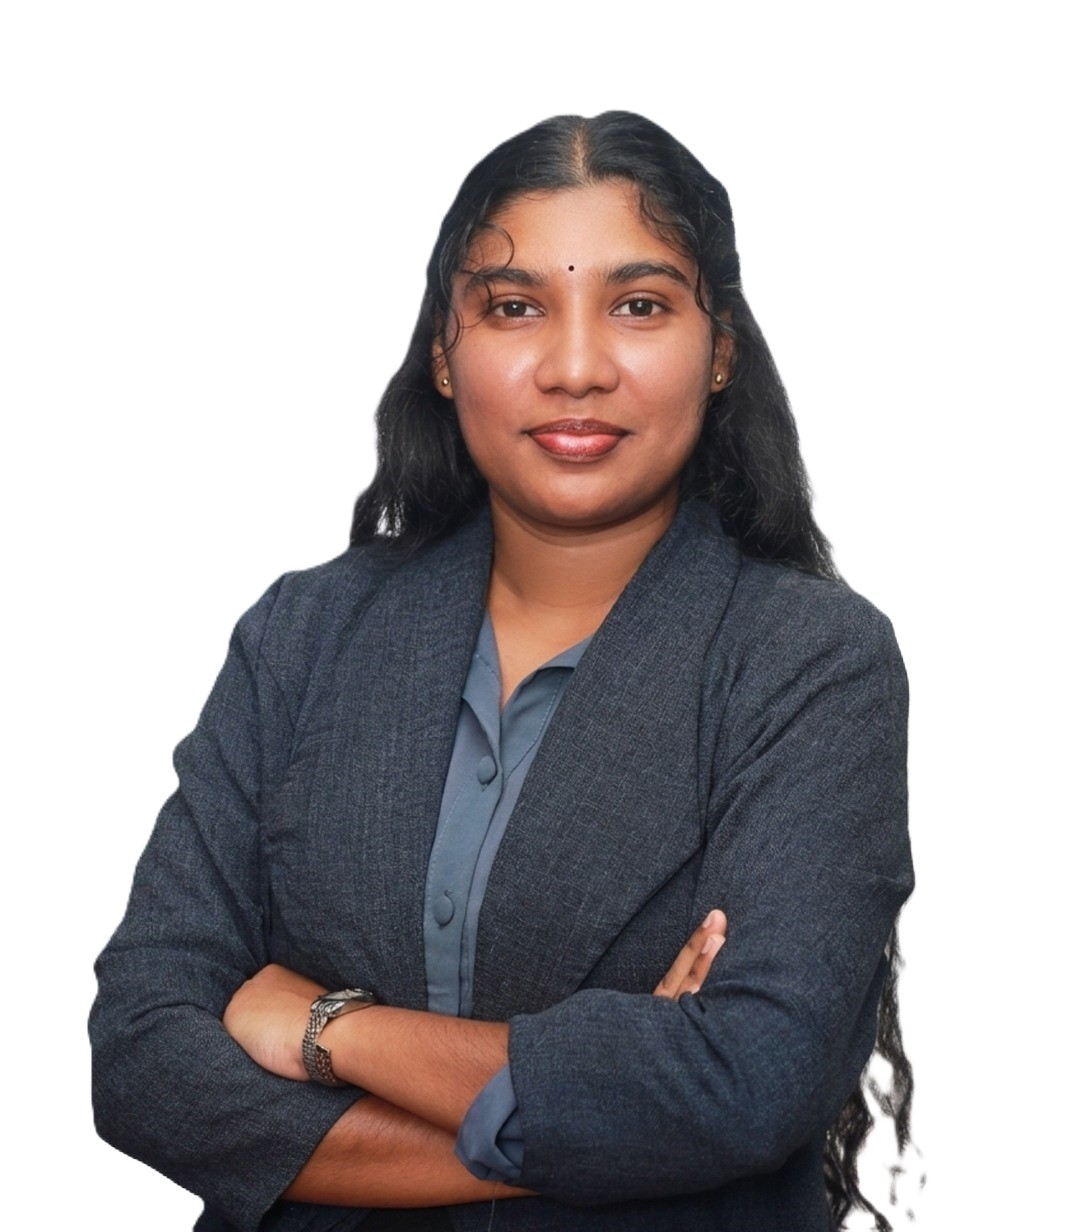
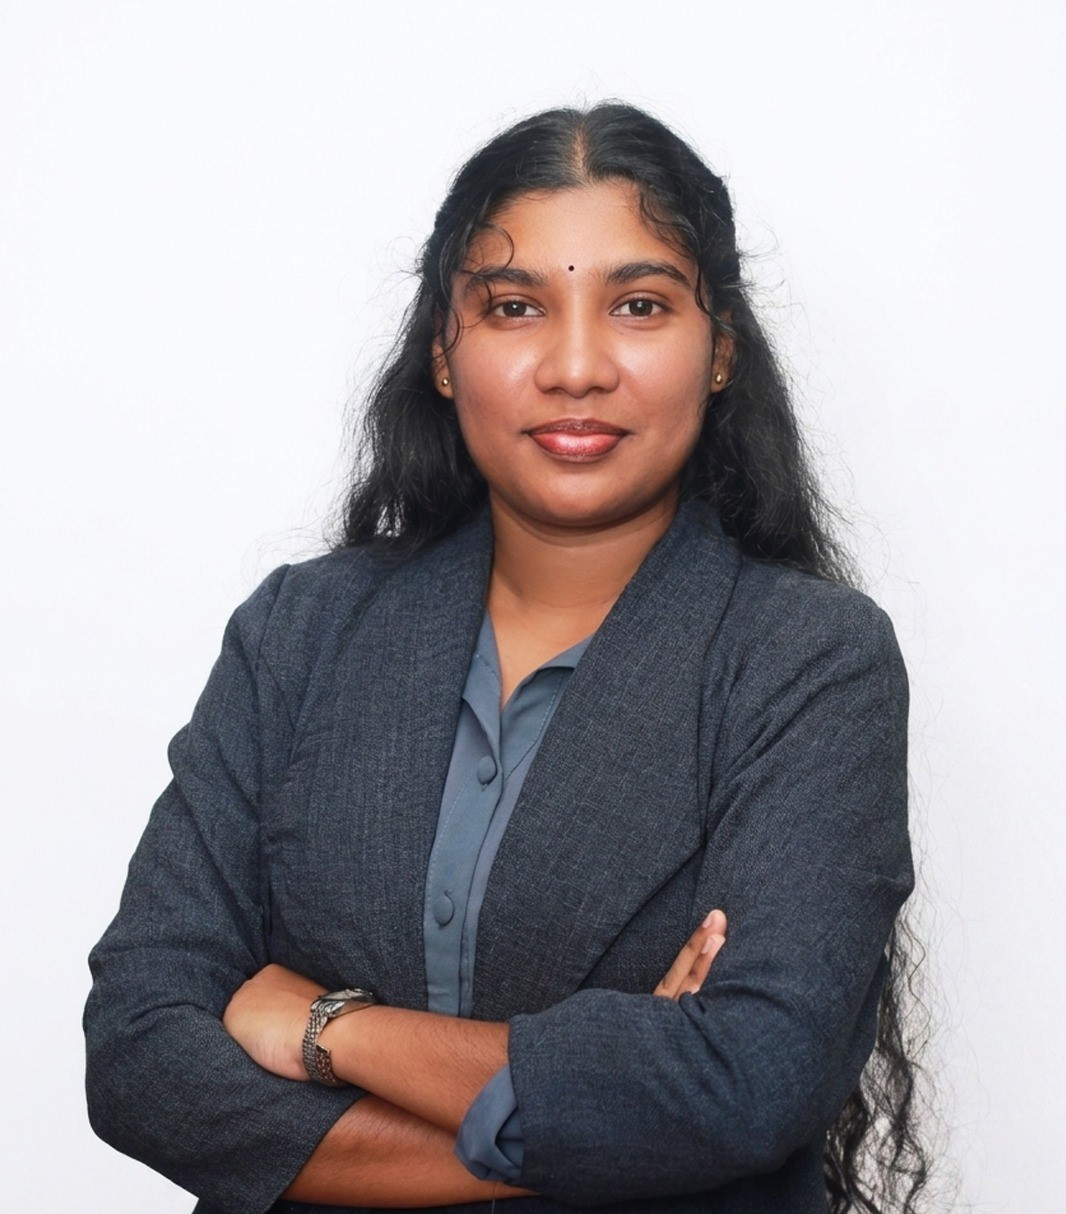
Projects Updated

diff --git a/src/data/projects.js b/src/data/projects.js
@@ -3,51 +3,37 @@ export const projects = [
   {
     id: '01',
     module: 'Data Analytics',
-    title: 'Global AI Job Market & Salary Trends 2025',
+    title: 'Retail Price Trend & Inflation Analysis',
     summary:
-      'End-to-end analysis of the global AI job market, combining descriptive, inferential, and predictive methods to uncover in-demand roles, top-paying skills, and regional hiring imbalances.',
+      'An interactive Dash dashboard analyzing ~22,000 weekly retail price records (2020\u20132024) across 8 product categories to study inflation dynamics through Sri Lanka\u2019s 2022 economic crisis.',
     highlights: [
-      'Descriptive analysis of job & salary distribution across geographies and roles',
-      'Inferential statistics to test associations between role attributes and compensation',
-      'Predictive models estimating salary and demand from role characteristics',
+      'Conducted formal hypothesis testing (Shapiro-Wilk, Mann-Whitney U, Kruskal-Wallis H, Dunn\u2019s post-hoc) to statistically confirm significant price shifts across categories and time periods',
+      'Built cascading filters (year/month/category/item), KPI tracking, and a custom \u201cInflation Leaderboard\u201d ranking items by percentage price increase',
+      'Cleaned and structured ~22,000 raw weekly price records into an analysis-ready dataset',
     ],
-    tech: ['Python', 'Pandas', 'Statsmodels', 'Matplotlib'],
-    metric: '3 analysis stages',
-    repoUrl: '#',
+    tech: ['Python', 'Pandas', 'SciPy', 'Dash', 'Plotly'],
+    metric:'22,000 rows · 8 categories · 5 years of weekly data' ,
+    repoUrl: 'https://github.com/Rushani-Sivakumar/Retail_Price_Trend_Analysis',
     demoUrl: '',
   },
   {
     id: '02',
-    module: 'Introduction to Machine Learning',
-    title: 'Student Depression Risk Classification',
+    module: 'Machine Learning',
+    title: 'Global AI Job Market & Salary Trends 2025',
     summary:
-      'Built and compared multiple classification models to predict student depression risk from academic, lifestyle, and psychological indicators, addressing class imbalance for reliable predictions.',
+      'A machine learning pipeline that predicts AI/ML job salaries from job postings, comparing multiple models via cross-validation ',
     highlights: [
-      'Cleaned and encoded a 27,900-row × 18-column dataset (Kaggle)',
-      'Handled class imbalance using SMOTE / oversampling',
-      'Trained and compared Logistic Regression, Decision Tree, and Random Forest classifiers',
+      'Compared Linear Regression, Ridge, and Random Forest pipelines on 15,000 job postings using 5-fold cross-validation for model selection',
+      'Built one shared preprocessing pipeline handling categorical encoding, multi-hot skill features, and date-derived features across all candidate models',
+      'Selected Random Forest as the best model, achieving R\u00b2 = 0.88 on held-out test data',
     ],
-    tech: ['Python', 'scikit-learn', 'Pandas', 'NumPy'],
+    tech: ['Python', 'Pandas', 'Statsmodels', 'Matplotlib'],
     metric: '27,900 rows · 3 models compared',
-    repoUrl: '#',
+    repoUrl: 'https://github.com/Rushani-Sivakumar/AI_Job_Salary_Prediction',
     demoUrl: '',
   },
-  {
-    id: '03',
-    module: 'Big Data Analysis',
-    title: 'Netflix Viewing Trends Dashboard',
-    summary:
-      'An interactive Dash dashboard for a streaming platform\u2019s marketing team, turning raw viewing logs into actionable insight on audience behaviour, seasonality, and content performance.',
-    highlights: [
-      'Cleaned and feature-engineered raw viewing data (release/viewing year & month extraction, monthly view aggregation)',
-      'Built 8 interactive visualizations: bar, pie, line, scatter, bubble, and heatmap charts',
-      'Surfaced insights on category performance, language demographics, and seasonal trends',
-    ],
-    tech: ['Python', 'Pandas', 'Dash', 'Plotly'],
-    metric: '8 interactive visualizations',
-    repoUrl: '#',
-    demoUrl: '',
-  },
+  
+
 ]
 
 export const certifications = [

diff --git a/src/data/skills.js b/src/data/skills.js
@@ -2,22 +2,33 @@ export const skillGroups = [
   {
     label: 'Languages & Databases',
     tag: 'lang',
-    items: ['Python', 'SQL', 'MySQL'],
+    items: ['Python','JavaScript', 'SQL', 'MySQL'],
   },
   {
-    label: 'Machine Learning & Analysis',
-    tag: 'ml',
-    items: ['scikit-learn', 'NumPy', 'Pandas', 'Statsmodels', 'Machine Learning'],
+    label: 'Data Analysis',
+    tag: 'da',
+    items: ['Statsmodels','Data Cleaning', 'EDA', 'Statistical Analysis', 'Data Modeling'],
   },
+  {
+    label: 'Machine Learning',
+    tag: 'ml',
+    items: ['scikit-learn', 'NumPy', 'Pandas', 'Supervised Learning', 'Unsupervised Learning', 'Feature Engineering'],
+  },
+  
   {
     label: 'Data Visualization',
     tag: 'viz',
-    items: ['Matplotlib', 'Plotly', 'Dash', 'Power BI (in progress)'],
+    items: ['Matplotlib', 'Seaborn', 'Plotly', 'Dash', 'Go','Express'],
   },
   {
     label: 'Tools',
     tag: 'tools',
-    items: ['Excel', 'Jupyter Notebook', 'Git'],
+    items: ['Ms Excel', 'Jupyter Notebook', 'Git','GitHub', 'VS Code', 'Anaconda'],
   },
+  {
+    label: 'Cloud',
+    tag: 'cloud',
+    items: ['AWS', 'Microsoft Azure', 'Digital Ocean'],
+  }
   
 ]

diff --git a/src/components/Footer.jsx b/src/components/Footer.jsx
@@ -1,9 +1,9 @@
 export default function Footer() {
   return (
     <footer className="border-t border-line py-8">
-      <div className="max-w-6xl mx-auto px-6 flex flex-wrap items-center justify-between gap-3 font-mono text-xs text-muted">
+      <div className="max-w-6xl mx-auto px-6 flex flex-wrap items-center justify-center gap-3 font-mono text-xs text-muted">
         <span>© {new Date().getFullYear()} Rushani Sivakumar</span>
-        <span>Built with React &amp; Tailwind CSS</span>
+        
       </div>
     </footer>
   )

diff --git a/src/components/Hero.jsx b/src/components/Hero.jsx
@@ -49,7 +49,7 @@ export default function Hero() {
           </h1>
           <p className="mt-6 text-lg text-muted max-w-md">
             Final-year Computer Science undergraduate turning messy, real-world datasets
-            into clear, model-backed decisions — with Python, statistics, and a lot of
+            into clear, model-backed decisions — with Python, statistics, machine learning and a lot of
             curiosity.
           </p>
 

diff --git a/src/components/Projects.jsx b/src/components/Projects.jsx
@@ -68,7 +68,7 @@ export default function Projects() {
       <div className="max-w-6xl mx-auto px-6">
         <p className="eyebrow mb-3"># projects</p>
         <h2 className="font-display text-3xl font-semibold tracking-tight mb-10">
-          Academic Projects
+          Projects
         </h2>
 
         <div className="space-y-6">